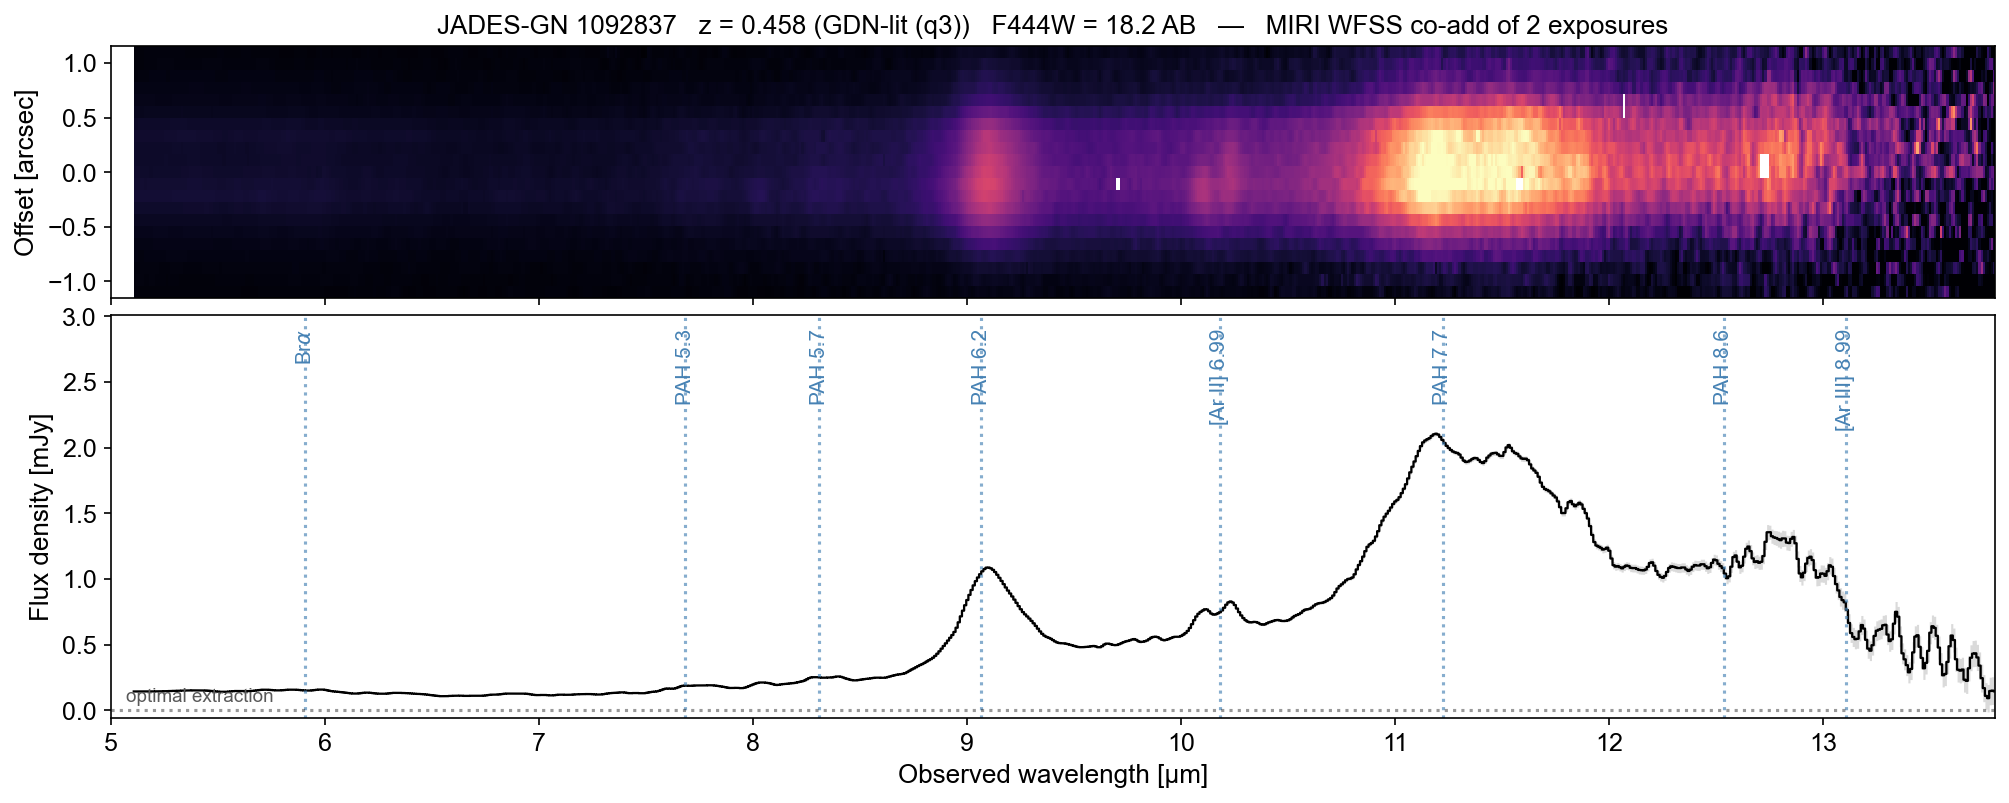
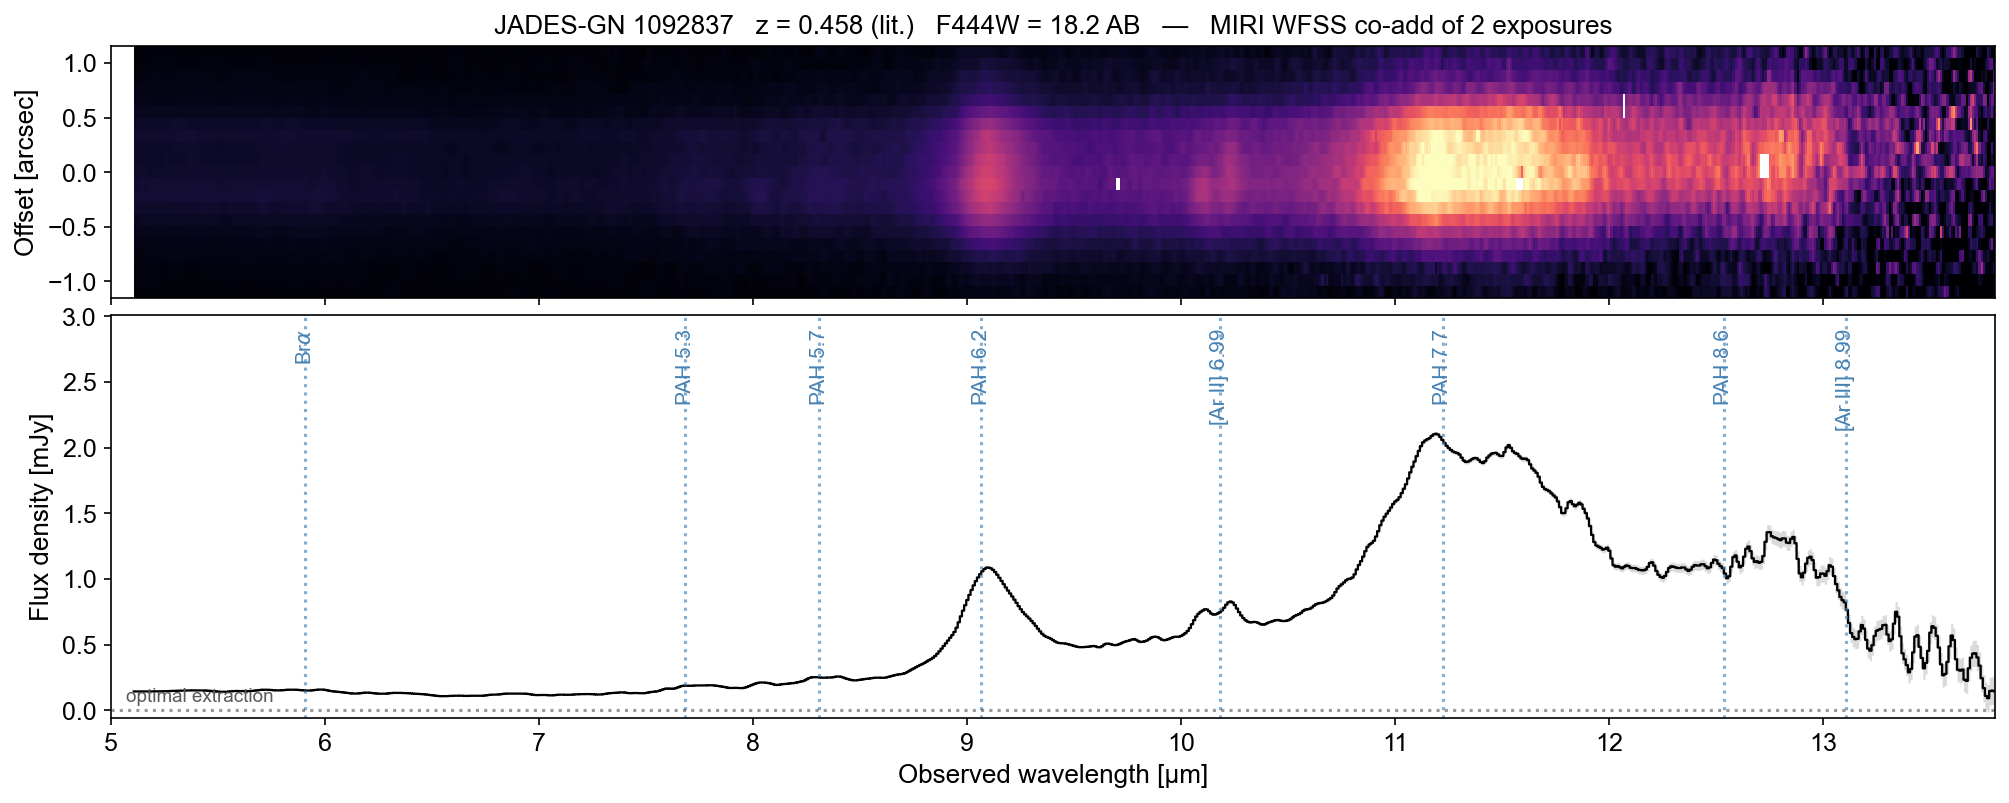
Polish edits through step 6; adopt fR(lambda) notation; drop z_source column
- fR(lambda) is the flux-cal response symbol throughout the notebook and
  README (R(lambda) is reserved for the spectral resolution lambda/dlambda);
  reverts the earlier R(lambda) normalization of the step-3 text
- copy-edit the new step-5/6 markdown (NIRCam-heritage notes on the -1024
  offset and the 3.95 um reference; FitsMap/JADES wording kept)
- catalog CSV: user dropped the z_source column; the step-10 cell now
  falls back to a 'lit.' label when the column is absent
- re-executed end-to-end: 0 errors, results unchanged (median flux ratio
  1.07 +- 0.06 vs the v5 atlas); media refreshed

Changed region(s): [[0.216, 0.0, 0.8333, 0.0623]]

diff --git a/README.md b/README.md
@@ -4,7 +4,7 @@ JWST MIRI prism (P750L) wide-field slitless spectroscopy — calibration referen
 
 When the MIRI LRS prism is used without the slit on the FULL imager array, every source in the illuminated field produces a dispersed mid-infrared spectrum (4.7–13.8 µm) — wide-field slitless spectroscopy (WFSS). Several archival JWST programs observed this way, but there is no STScI pipeline support for extracting these data. This repository provides both the calibration and a complete, worked extraction path:
 
-- **`data/cal_v1.0/`** — the `MIRI_WFSS_CAL_v1.0` calibration suite: flat field, master sky v5 (consensus-patched, with an additive detector-defect map and optional PCA components), WFSS region mask, trace and wavelength polynomial tables (v2.1), absolute response R(λ) (v2, CALSPEC-anchored), and L-flat, with a SHA-256 manifest. See `data/cal_v1.0/README.md` for the calibration model and file details.
+- **`data/cal_v1.0/`** — the `MIRI_WFSS_CAL_v1.0` calibration suite: flat field, master sky v5 (consensus-patched, with an additive detector-defect map and optional PCA components), WFSS region mask, trace and wavelength polynomial tables (v2.1), absolute response fR(λ) (v2, CALSPEC-anchored), and L-flat, with a SHA-256 manifest. See `data/cal_v1.0/README.md` for the calibration model and file details.
 - **`MIRI_WFSS_extraction_example_FSun.ipynb`** — one self-contained notebook that turns public MIRI P750L FULL `rate` files into flux-calibrated 2D + 1D spectra: flat + sky calibration, WCS attachment, trace rectification, flux calibration, PA-grouped sigma-clipped co-addition, and boxcar/optimal 1D extraction. Committed with executed outputs so you can read the full worked example without running anything.
 - **`download_goodsn_example_rates.sh`** — fetches the example dataset (GO-4192/SMILES, GOODS-N: 8 × 364 s P750L exposures, ~170 MB) directly from MAST.
 - **`data/catalogs/goodsn_example_sources.csv`** — the 9 galaxies with literature spectroscopic redshifts covered by the example exposures.
@@ -44,7 +44,7 @@ and the first run downloads a few MIRI imaging reference files (~100 MB) into th
 | 4 | attach a celestial WCS (`jwst` `AssignWcsStep` in imaging mode) and write lv1.5 files |
 | 5 | load the source catalog; footprint coverage check |
 | 6 | rectify a dispersed trace (v2.1 trace + wavelength polynomials, DQ masking, local background) |
-| 7 | flux-calibrate with R(λ); single-exposure spectrum |
+| 7 | flux-calibrate with the response fR(λ); single-exposure spectrum |
 | 8 | co-add exposures: PA grouping, sigma-clipped weighted mean, pairwise N = 2 rejection |
 | 9 | 1D extraction: small-aperture boxcar + optimal (Horne), measured/Gaussian/imaging profiles |
 | 10 | atlas-style 2D + 1D figures and `.ecsv` spectra for all 9 example sources |
@@ -64,7 +64,7 @@ Example output (GN 1092837, z = 0.458, the brightest source in the example field
 |---|---|---|
 | Trace | MAD 0.055 px | 4,209 LMC point sources |
 | Wavelength | 0.10–0.25 resolution element (220–610 km/s RMS) | PN + galaxy lines, 7.9–13.1 µm |
-| Flux, 7.4–13.8 µm | σ(R)/R = 0.3%; 1–2% absolute | CALSPEC standard, direct |
+| Flux, 7.4–13.8 µm | σ(fR)/fR = 0.3%; 1–2% absolute | CALSPEC standard, direct |
 | Flux, 4.7–7.4 µm | ~5% shape | stellar ensemble, overlap-tied |
 | L-flat | identity; max \|L−1\| = 0.010 | CALSPEC 5-position grid; galaxy repeats MAD 4.4% |
 | End-to-end | broadband closure 0.999; field star 1.016 ± 0.042 | LMC PN; 2MASS/WISE SED |